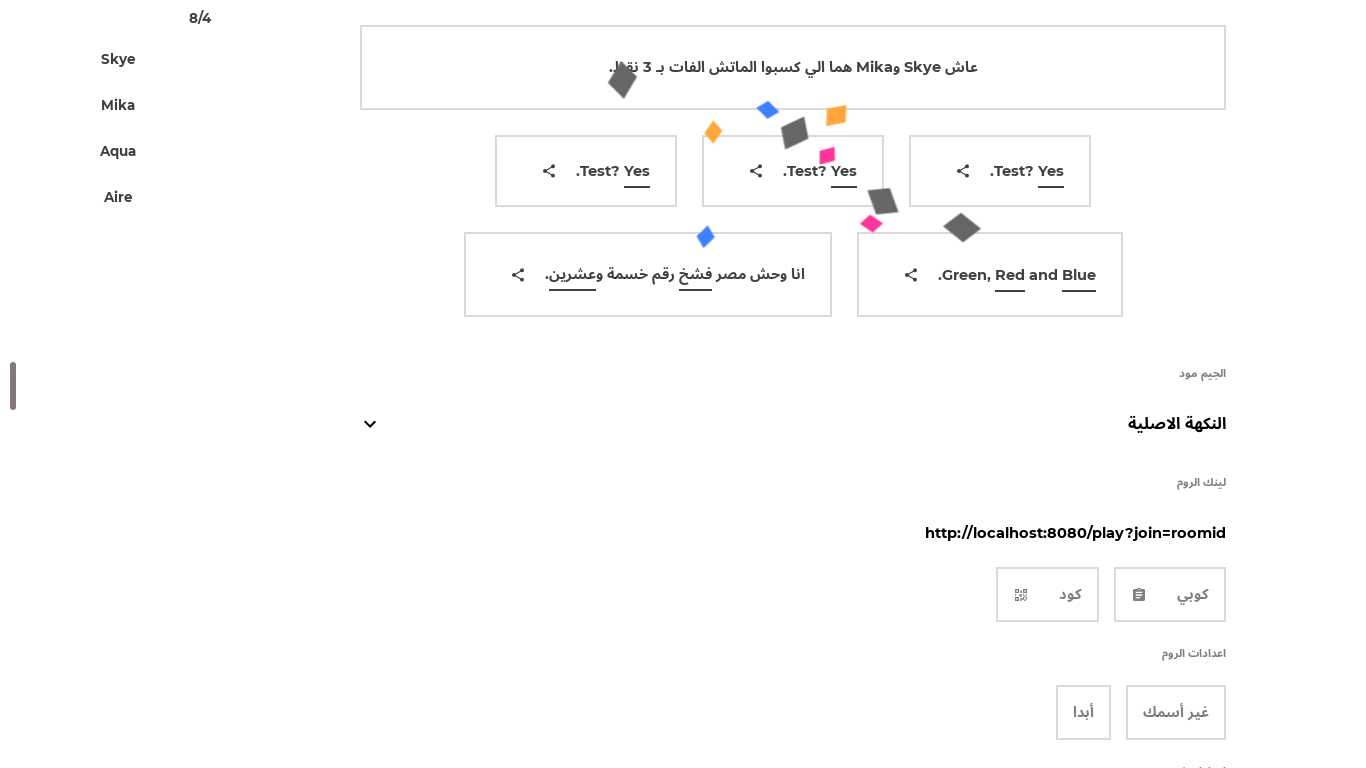
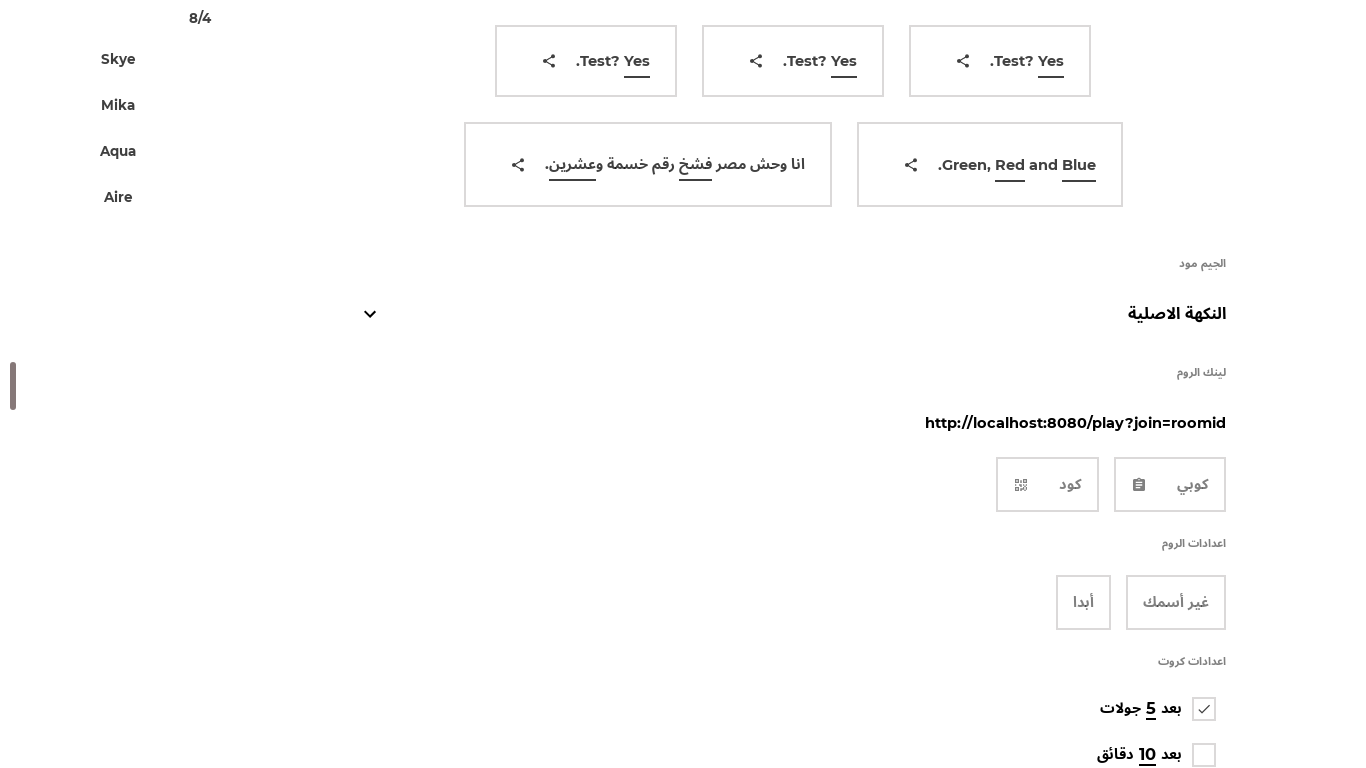
updated tests

diff --git a/src/mocks/io.js b/src/mocks/io.js
@@ -142,7 +142,22 @@ async function emit(eventName, args)
   }
   else if (eventName === 'create')
   {
-    matchBroadcast();
+    if (params.has('highscorers'))
+    {
+      defaultRoomData.state = 'match';
+      defaultRoomData.players[0].score = 3;
+      defaultRoomData.players[1].score = 3;
+
+      matchBroadcast();
+
+      defaultRoomData.state = 'lobby';
+      
+      setTimeout(() => matchBroadcast(), 1500);
+    }
+    else
+    {
+      matchBroadcast();
+    }
   }
   else if (eventName === 'join')
   {
@@ -223,12 +238,6 @@ function matchBroadcast(roomData)
     ...defaultRoomData,
     ...roomData
   };
-
-  if (params.has('highlights'))
-  {
-    roomData.players[0].score = 3;
-    roomData.players[1].score = 3;
-  }
 
   setTimeout(() => emitter.emit('roomData', roomData));
 }

diff --git a/src/components/matchHighlights.js b/src/components/matchHighlights.js
@@ -106,17 +106,13 @@ class MatchHighlights extends StoreComponent
     return (
       <div id={ 'match-highlights' } className={ styles.container } style={ { direction: locale.direction } }>
         {
-          highScore > 0 ?
+          highScore > 0 ? <div className={ styles.highScorers }>
             <Lottie
               className={ styles.confetti }
               loop={ process.env.NODE_ENV === 'test' ? false : true }
               initialSegment={ process.env.NODE_ENV === 'test' ? [ 5, 6 ] : undefined }
               animationData={ confettiAnimation }
-            /> : undefined
-        }
-        
-        {
-          highScore > 0 ? <div className={ styles.highScorers }>
+            />
             {
               [
                 translation('congrats'),
